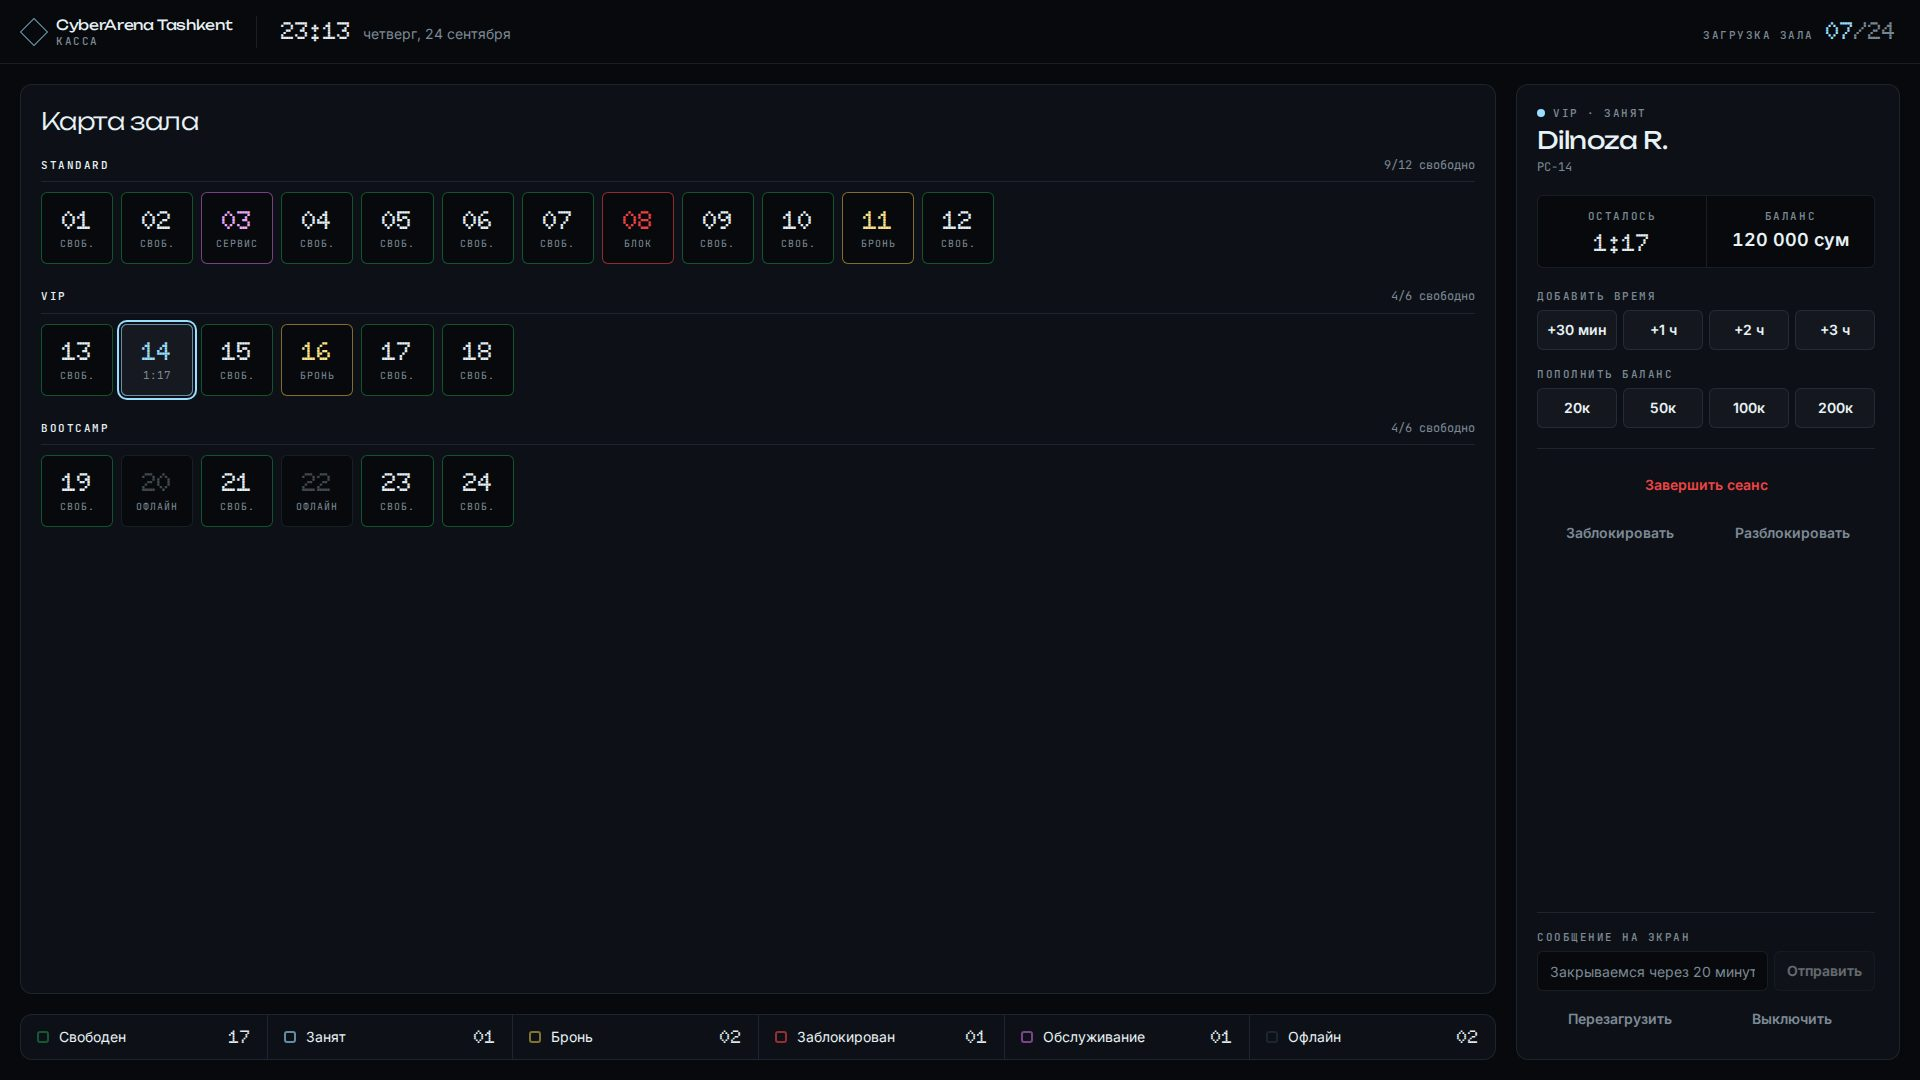
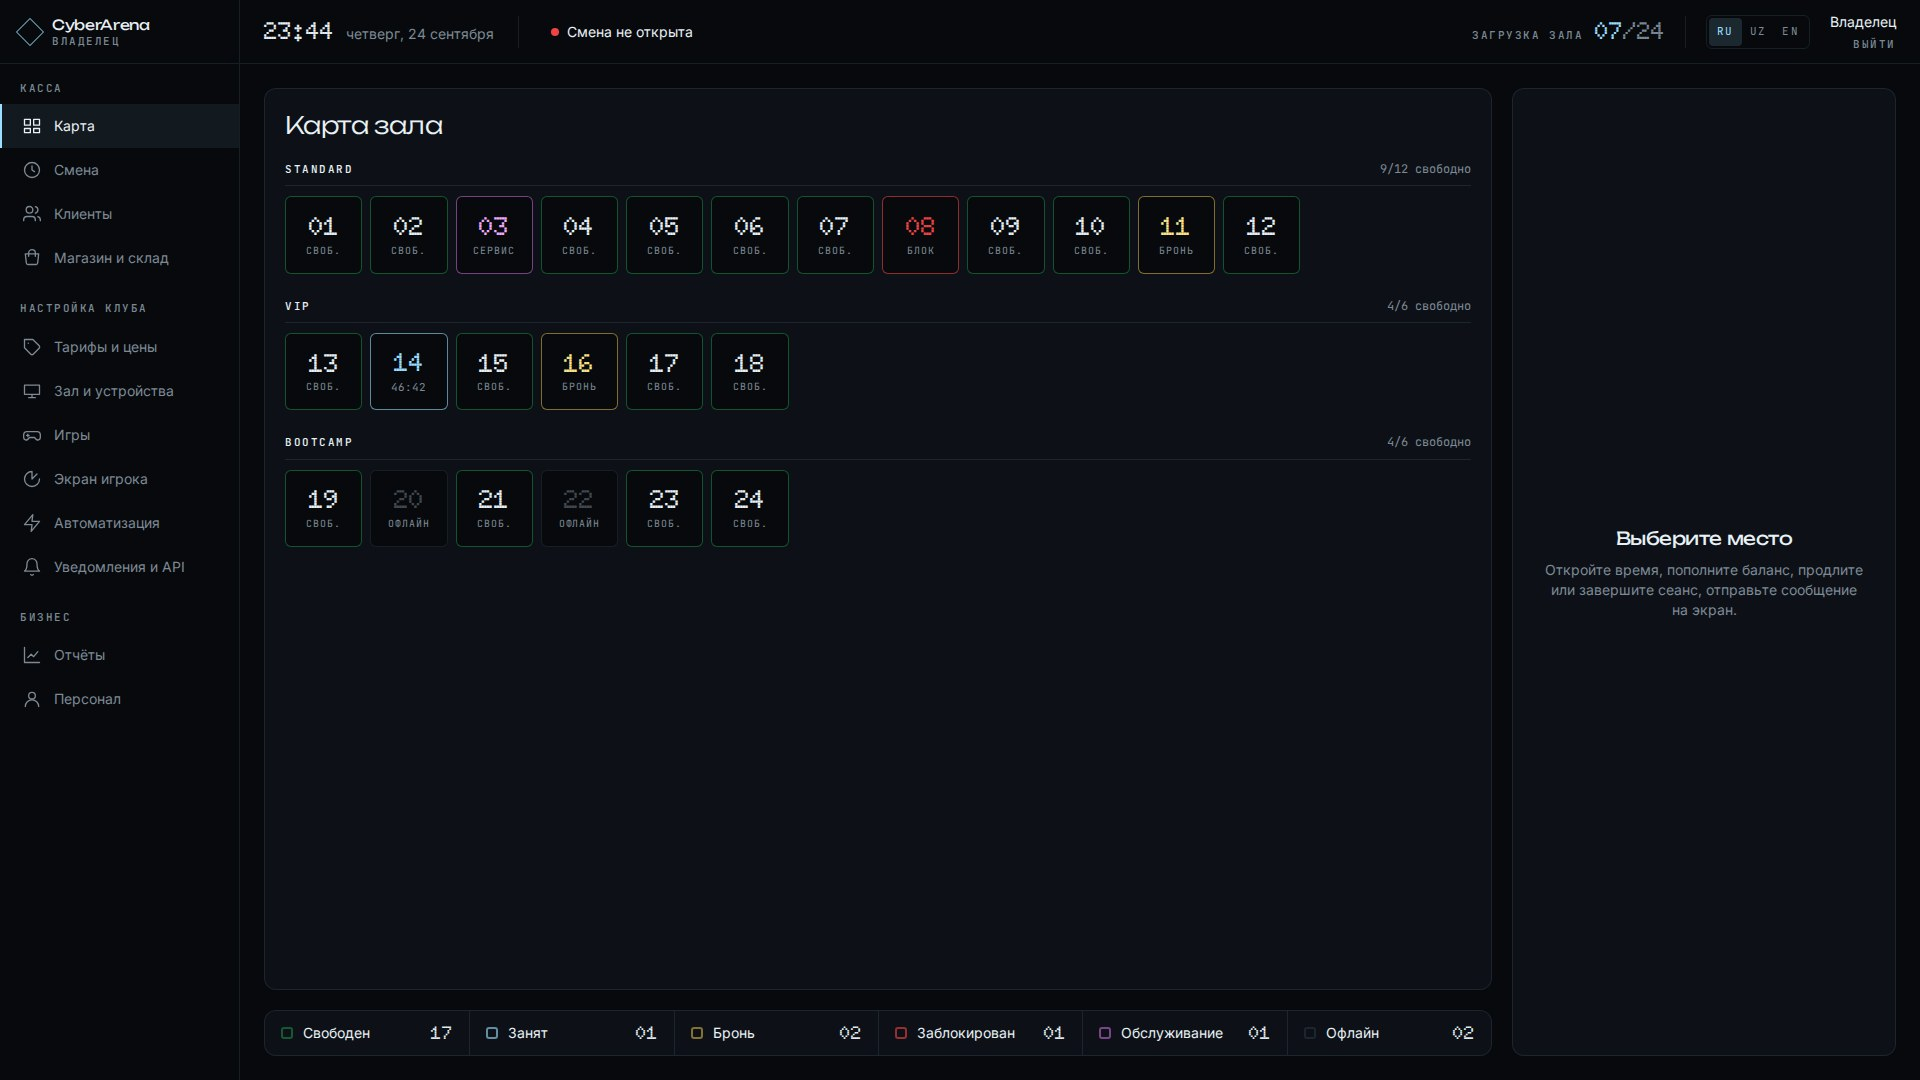
docs: admin console in README with screenshots (#4)
Describe the club configuration console (roles, pricing, hall editor,
player screen, automation, integrations, reports) in Russian and English,
add screenshots of all sections, and map the remaining demo games to local
art so no cover is blank.

Claude-Session: https://claude.ai/code/session_01VwqrUosmGVayBWd8y4r7oy

diff --git a/tools/MockServer/src/db.ts b/tools/MockServer/src/db.ts
@@ -1649,7 +1649,15 @@ function load(): Db {
 /** The kiosk's demo art (`apps/shell/public/mock-art`), served by this server at `/mock-art/*`. */
 export const MOCK_ART_DIR = fileURLToPath(new URL('../../../apps/shell/public/mock-art/', import.meta.url));
 const PUBLIC_URL = process.env['MOCK_PUBLIC_URL'] ?? 'http://localhost:8080';
-const ART_ALIASES: Record<string, string> = { americano: 'coffee', lays: 'chips', popcorn: 'chips' };
+const ART_ALIASES: Record<string, string> = {
+  americano: 'coffee',
+  lays: 'chips',
+  popcorn: 'chips',
+  gta5: 'gtav',
+  rocketleague: 'rocket',
+  overwatch2: 'ow2',
+  fc24: 'fc25',
+};
 
 /**
  * Swaps the seed's placeholder image hosts (picsum.photos, unreachable offline) for the local demo art when a matching
@@ -1666,8 +1674,10 @@ function localArt(url: string | null | undefined): string | null | undefined {
     const slug = seed.slice(8);
     candidates.push(`p-${ART_ALIASES[slug] ?? slug}.jpg`, `p-${slug}.svg`);
   } else if (seed.startsWith('app-') || seed.startsWith('ach-')) candidates.push(`${seed}.svg`);
-  else if (seed.endsWith('-hero')) candidates.push(`${seed}.jpg`);
-  else candidates.push(`${seed}-cover.jpg`);
+  else if (seed.endsWith('-hero')) {
+    const slug = seed.slice(0, -5);
+    candidates.push(`${ART_ALIASES[slug] ?? slug}-hero.jpg`);
+  } else candidates.push(`${ART_ALIASES[seed] ?? seed}-cover.jpg`);
   const hit = candidates.find((f) => existsSync(`${MOCK_ART_DIR}${f}`));
   return hit ? `${PUBLIC_URL}/mock-art/${hit}` : url;
 }

diff --git a/README.md b/README.md
@@ -62,10 +62,21 @@
 
 <img src="docs/img/11-hud.jpg" alt="HUD поверх игры" width="100%">
 
-**Касса администратора** (`apps/admin`) — карта зала по зонам, легенда-счётчик статусов, сеанс, пополнение,
-команды на ПК
+**Админка клуба** (`apps/admin`) — касса и настройка клуба в одном окне. Вход по PIN, роли «владелец» и
+«кассир», интерфейс на русском, узбекском и английском
 
-<img src="docs/img/13-admin.jpg" alt="Касса администратора" width="100%">
+<img src="docs/img/13-admin.jpg" alt="Карта зала" width="100%">
+
+| | | |
+|:-:|:-:|:-:|
+| <img src="docs/img/14-admin-login.jpg" alt="Вход по PIN"> | <img src="docs/img/15-admin-shift.jpg" alt="Смена"> | <img src="docs/img/16-admin-clients.jpg" alt="Клиенты"> |
+| Вход по PIN | Смена и X-отчёт | Клиенты, группы, лояльность |
+| <img src="docs/img/17-admin-shop.jpg" alt="Магазин и склад"> | <img src="docs/img/18-admin-pricing.jpg" alt="Тарифы и цены"> | <img src="docs/img/19-admin-hall.jpg" alt="Зал и устройства"> |
+| Магазин и склад | Тарифы, дни, бонусы, счастливые часы | Редактор зала по сетке |
+| <img src="docs/img/20-admin-catalog.jpg" alt="Каталог игр"> | <img src="docs/img/21-admin-club.jpg" alt="Экран игрока"> | <img src="docs/img/22-admin-automation.jpg" alt="Автоматизация"> |
+| Каталог игр: порядок, скрытие | Экран игрока: бренд, разделы, правила | Автоматизация «если → то» |
+| <img src="docs/img/23-admin-integrations.jpg" alt="Уведомления и API"> | <img src="docs/img/24-admin-reports.jpg" alt="Отчёты"> | <img src="docs/img/25-admin-staff.jpg" alt="Персонал"> |
+| Telegram, вебхуки, API-ключ | Отчёты и тепловая карта загрузки | Персонал и роли |
 
 </div>
 
@@ -139,12 +150,22 @@ ClubShell закрывает контур на самом ПК: **оболочк
 - Киоск-пользователь: создание, ротация пароля, автологон, перенаправление папок, сброс профиля
 - Сторож: запуск оболочки в интерактивной сессии через `CreateProcessAsUser`, перезапуск при падении, безопасный режим при crash-loop
 
-**Касса (`apps/admin`)**
+**Админка клуба (`apps/admin`)** — каждый владелец настраивает клуб под себя, без программиста
 
-- В том же стиле Obsidian, что и оболочка: верхняя полоса с часами и загрузкой зала «07/24»
-- Карта зала: пронумерованные ячейки по зонам, статус цветом рамки, таймер сеанса; легенда под картой считает ПК в каждом статусе
-- Открыть время на месте (клиент, тариф, минуты, цена до подтверждения), добавить время, завершить сеанс с возвратом
-- Пополнение баланса на кассе, сообщение на экран игрока, блокировка / перезагрузка / выключение ПК
+- В том же стиле Obsidian, что и оболочка: верхняя полоса с часами, статусом смены, загрузкой зала «07/24» и языком RU / UZ / EN
+- Вход по PIN; роли «владелец» (всё) и «кассир» (только касса); API-ключ клуба работает как токен владельца
+- **Касса:** карта зала по зонам со статусами и таймерами; открыть время (цена считается сервером со всеми скидками), добавить, завершить с возвратом; пополнение, сообщение на экран, блокировка / перезагрузка / выключение ПК
+- **Смена:** открытие с наличными на начало, X-отчёт в любой момент, закрытие с пересчётом кассы и расхождением, история смен
+- **Клиенты:** поиск, группы со скидкой, уровни лояльности по сумме трат, чёрный список, ограничение для несовершеннолетних, история операций
+- **Тарифы и цены:** почасовые и пакетные тарифы по зонам и времени суток, наценка или скидка по дням недели и праздникам, группы, бонусы к пополнению, промокоды, счастливые часы, лояльность; из всех скидок применяется одна лучшая
+- **Зал и устройства:** редактор зала по сетке — зоны, ПК, консоли, характеристики
+- **Магазин и склад:** цены, остатки, приход товара, порог «заканчивается» с уведомлением
+- **Игры:** порядок в каталоге, «рекомендуем», скрыть игру с экранов игроков
+- **Экран игрока:** название, логотип, акцентный цвет, обои, какие разделы видят игроки, баннеры, правила клуба на трёх языках — с живым предпросмотром
+- **Автоматизация:** правила «если → то» (скоро конец сеанса, ПК свободен N минут, каждый N-й визит, пополнение от суммы, начало сеанса → сообщение, бонус, блокировка или выключение ПК, уведомление владельцу) и готовые шаблоны
+- **Уведомления и API:** Telegram-бот, вебхуки на события клуба, ротация API-ключа
+- **Отчёты:** выручка по дням, загрузка зала тепловой картой по часам, популярные игры и товары, смены за период
+- **Персонал:** сотрудники, роли и PIN-коды
 - Работает против mock-сервера (`/api/v1/admin/*`); в бою указывает на серверный продукт оператора
 
 **Платформа**
@@ -214,7 +235,7 @@ pnpm mock                                        # mock-сервер → http://
 VITE_MOCK=1 pnpm --filter @clubshell/shell dev   # → http://localhost:1420
 ```
 
-Касса — отдельное приложение: `pnpm mock` (сервер) и `pnpm admin` → http://localhost:1421.
+Админка — отдельное приложение: `pnpm mock` (сервер) и `pnpm admin` → http://localhost:1421. PIN владельца `0000`, кассира `1111`.
 
 `VITE_MOCK=1` подменяет каждую Tauri-команду и событие обработчиками в браузере (`apps/shell/src/mocks/handlers.ts`): вход, тикающий таймер, кошелёк, заказы и чат живут в памяти вкладки.
 
@@ -228,6 +249,7 @@ VITE_MOCK=1 pnpm --filter @clubshell/shell dev   # → http://localhost:1420
 | QR | mock подтверждает вход сам через несколько секунд |
 | PIN разблокировки сеанса | `1234` |
 | PIN администратора (горячая клавиша `Ctrl+Alt+Shift+F12`) | `0000` |
+| Админка (`pnpm admin`) | PIN владельца `0000`, кассира `1111` |
 | `banned` | любой пароль → ошибка бана, чтобы увидеть путь отказа |
 
 ### Полный цикл на Windows
@@ -275,7 +297,7 @@ Copy-Item .env.example .env
 ## Структура
 
 ```
-apps/admin/            касса: карта зала, открыть время, пополнить баланс, команды на ПК (React + Vite)
+apps/admin/            админка клуба: касса, смена, клиенты, тарифы, зал, игры, экран игрока, автоматизация, отчёты (React + Vite)
 apps/shell/            киоск-оболочка: src/ (React) + src-tauri/ (Rust-хост Tauri 2)
 apps/shell/public/mock-art/  оригинальный арт, обложки, видеолупы и фото товаров для mock-режима
 config/                JSON-конфиги по умолчанию → C:\ProgramData\ClubShell
@@ -355,6 +377,8 @@ tools/scripts/         build · dev · package · sign · publish · setup-dev-v
 <summary><b>English summary</b></summary>
 
 **ClubShell** is client software for gaming clubs / internet cafés (Uzbekistan / CIS; UI in Russian, Uzbek and English; prices in UZS). Each gaming PC runs a **.NET 8 Windows service** (`ClubShellAgent`, session 0: sessions and billing timers, game launching via Steam / Epic / Battle.net / Riot / EA / Ubisoft with an account pool, server policies, anti-cheat checks, updates, telemetry, remote admin) and a **Tauri 2 + React kiosk shell** that replaces `explorer.exe` for the local kiosk user. The shell ships the "Obsidian" theme (a minimal layout with a restrained HUD layer: corner-bracket focus, mono telemetry labels, dot-matrix time and money, one ice-blue accent — the game art carries the colour), a pause-menu HUD frame (section tabs between LB/RB on top, a status line with time, balance and controller prompts at the bottom), a calm home with the selected game, a poster-wall catalogue and an in-game HUD (`Ctrl+Shift+H`: time, balance, +30 min, call admin) over the running game. They talk over the named pipe `\\.\pipe\clubshell-agent`; the agent talks to the club server over REST + WebSocket with HMAC-signed requests. Offline mode keeps the timer and queues events in SQLite.
+
+The **admin console** (`apps/admin`, `pnpm admin` → http://localhost:1421; owner PIN `0000`, cashier `1111`) lets each club owner configure their own club without a developer: counter and hall map, shifts with X reports and cash count on close, clients (groups, loyalty tiers, blacklist, minor curfew), pricing (weekday/holiday rates, happy hours, top-up bonuses, promo codes — the single best discount applies), a grid hall editor, stock, game catalogue order and visibility, the player screen (branding, sections, banners, rules with live preview), “if → then” automation rules, Telegram and webhooks, reports with an hourly heat map, and staff roles. UI in Russian, Uzbek and English.
 
 Try the UI in a browser: `pnpm install && pnpm mock` then `VITE_MOCK=1 pnpm --filter @clubshell/shell dev` → http://localhost:1420 (login `demo` / `1234`). Full Windows dev loop: `tools/scripts/dev.ps1`. Verified here: all 8 .NET projects compile with `/warnaserror`, 424 xUnit tests pass, `tsc` and `vite build` are clean; Rust, WiX and Playwright runs are left to CI.
 
